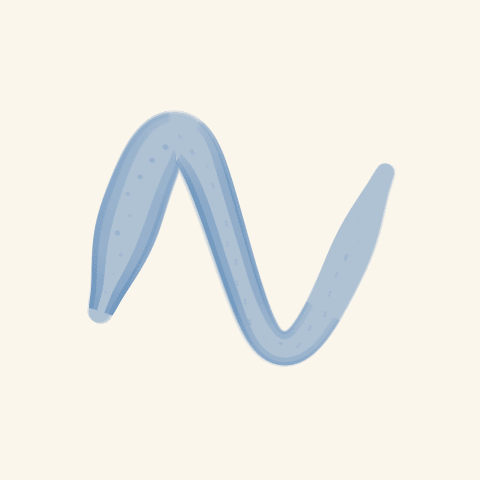
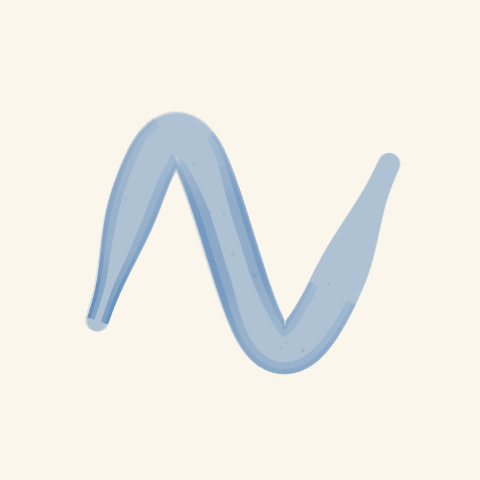
Keep the watercolor ribbon even and scatter the grain.
The thickness noise peaked at the start and made a teardrop, so the wash paints an even width and tapers both tips the same way. Specks are placed from a seed instead of stepped along the stroke.

diff --git a/Sources/Sketchy/Render/WatercolorStroke.swift b/Sources/Sketchy/Render/WatercolorStroke.swift
@@ -194,7 +194,11 @@ enum WatercolorStroke {
         }
     }
 
-    /// Fine grain inside the ribbon. Specks stay small so none of them reads as a blot.
+    /// Fine grain inside the ribbon.
+    ///
+    /// Each speck takes its position from a hashed index, not from a regular
+    /// step along the centreline, so the dots do not line up like stitches.
+    /// A few of them bring one or two neighbours. All of them stay small.
     private static func granules(
         line: (samples: [StrokeCenterSample], isClosed: Bool),
         width: CGFloat,
@@ -205,33 +209,115 @@ enum WatercolorStroke {
         let center = smoothedCenterline(line.samples, closed: line.isClosed)
         guard center.count >= 2 else { return [] }
         var pieces: [RibbonPiece] = []
-        let step = max(1, center.count / 28)
-        var index = step
-        let last = max(step, center.count - step)
-        while index < last {
-            let sample = center[index]
-            let located = StrokeCenterSample(point: sample.point, tangent: sample.forward, t: sample.t)
-            let half = halfWidth(at: located, forward: sample.forward, width: width, brush: brush, style: style, layer: 2, line: line)
+        let speckCount = 11 + Int((CGFloat(style.variation) * 6).rounded())
+        for index in 0..<speckCount {
             let seed = style.seed &+ UInt64(index) &* 0x9E37_79B9_7F4A_7C15
-            let across = SeededNoise.signed(at: CGFloat(index) * 0.17, seed: seed)
-            let unit = SeededNoise.unit(at: Float(index) * 0.13, seed: seed &+ 11)
-            let radius = half * (0.045 + 0.055 * CGFloat(unit))
-            if radius < 0.35 {
-                index += step
-                continue
-            }
-            let normal = sample.forward + .pi / 2
-            let dot = CGPoint(
-                x: sample.point.x + cos(normal) * across * half * 0.35,
-                y: sample.point.y + sin(normal) * across * half * 0.35
+            let along = CGFloat(SeededNoise.unit(at: Float(index), seed: seed &+ 41))
+            let across = CGFloat(SeededNoise.signed(at: CGFloat(index), seed: seed &+ 87))
+            let size = CGFloat(SeededNoise.unit(at: Float(index), seed: seed &+ 13))
+            let tone = CGFloat(SeededNoise.unit(at: Float(index), seed: seed &+ 59))
+            let t = line.isClosed ? along : 0.07 + along * 0.86
+            placeSpeck(
+                t: t,
+                across: across,
+                size: size,
+                tone: tone,
+                radiusScale: 1,
+                center: center,
+                width: width,
+                brush: brush,
+                style: style,
+                strokeOpacity: strokeOpacity,
+                line: line,
+                into: &pieces
             )
-            let fade = line.isClosed ? 1 : tipScale(sample.t)
-            let profile = alongOpacity(sample.t, closed: line.isClosed, brush: brush, strokeOpacity: strokeOpacity)
-            let opacity = CGFloat(style.pigment) * profile * fade * 0.18 * (0.4 + 0.6 * CGFloat(unit))
-            pieces.append(RibbonPiece(path: ellipse(center: dot, radius: radius), opacity: min(1, opacity), t: sample.t))
-            index += step
+            let cluster = SeededNoise.unit(at: Float(index), seed: seed &+ 101)
+            guard cluster > 0.78 else { continue }
+            for mate in 0..<2 {
+                let mateSeed = seed &+ UInt64(mate + 1) &* 0xBF58_476D_1CE4_E5B9
+                let alongJitter = CGFloat(SeededNoise.signed(at: CGFloat(mate + 1), seed: mateSeed)) * 0.03
+                let acrossJitter = CGFloat(SeededNoise.signed(at: CGFloat(mate + 5), seed: mateSeed &+ 7))
+                let mateSize = CGFloat(SeededNoise.unit(at: Float(mate + 2), seed: mateSeed &+ 3))
+                placeSpeck(
+                    t: min(0.94, max(0.06, t + alongJitter)),
+                    across: min(1, max(-1, across * 0.55 + acrossJitter * 0.45)),
+                    size: mateSize,
+                    tone: tone * 0.85,
+                    radiusScale: 0.65,
+                    center: center,
+                    width: width,
+                    brush: brush,
+                    style: style,
+                    strokeOpacity: strokeOpacity,
+                    line: line,
+                    into: &pieces
+                )
+            }
         }
         return pieces
+    }
+
+    /// One speck. `across` is -1...1 of the local half-width.
+    private static func placeSpeck(
+        t: CGFloat,
+        across: CGFloat,
+        size: CGFloat,
+        tone: CGFloat,
+        radiusScale: CGFloat,
+        center: [SmoothSample],
+        width: CGFloat,
+        brush: BrushProfile,
+        style: WatercolorStyle,
+        strokeOpacity: CGFloat,
+        line: (samples: [StrokeCenterSample], isClosed: Bool),
+        into pieces: inout [RibbonPiece]
+    ) {
+        let sample = sampleCenter(center, at: t)
+        let located = StrokeCenterSample(point: sample.point, tangent: sample.forward, t: sample.t)
+        let half = halfWidth(at: located, forward: sample.forward, width: width, brush: brush, style: style, layer: 2, line: line)
+        let radius = half * (0.025 + 0.055 * size) * radiusScale
+        guard radius >= 0.3 else { return }
+        let normal = sample.forward + .pi / 2
+        let reach = across * half * 0.62
+        let dot = CGPoint(
+            x: sample.point.x + cos(normal) * reach,
+            y: sample.point.y + sin(normal) * reach
+        )
+        let fade = line.isClosed ? 1 : tipScale(sample.t)
+        let profile = alongOpacity(sample.t, closed: line.isClosed, brush: brush, strokeOpacity: strokeOpacity)
+        let opacity = CGFloat(style.pigment) * profile * fade * (0.05 + 0.09 * tone) * radiusScale
+        pieces.append(RibbonPiece(path: ellipse(center: dot, radius: radius), opacity: min(1, opacity), t: sample.t))
+    }
+
+    /// Centreline sample at `t`, interpolated so a speck is not stuck to a station.
+    private static func sampleCenter(_ center: [SmoothSample], at t: CGFloat) -> SmoothSample {
+        guard center.count >= 2 else { return center[0] }
+        if t <= center[0].t { return center[0] }
+        if t >= center[center.count - 1].t { return center[center.count - 1] }
+        var low = 0
+        var high = center.count - 1
+        while high - low > 1 {
+            let mid = (low + high) / 2
+            if center[mid].t < t { low = mid } else { high = mid }
+        }
+        let start = center[low]
+        let end = center[high]
+        let span = max(0.0001, end.t - start.t)
+        let u = min(1, max(0, (t - start.t) / span))
+        let forward = atan2(
+            sin(start.forward) * (1 - u) + sin(end.forward) * u,
+            cos(start.forward) * (1 - u) + cos(end.forward) * u
+        )
+        return SmoothSample(
+            point: CGPoint(
+                x: start.point.x + (end.point.x - start.point.x) * u,
+                y: start.point.y + (end.point.y - start.point.y) * u
+            ),
+            t: t,
+            forward: forward,
+            curvature: start.curvature * (1 - u) + end.curvature * u,
+            radius: start.radius * (1 - u) + end.radius * u
+        )
     }
 
     /// One smoothed centreline, then a parallel ribbon.
@@ -278,10 +364,18 @@ enum WatercolorStroke {
             let normalAngle = sample.forward + .pi / 2
             let nx = cos(normalAngle)
             let ny = sin(normalAngle)
-            let point = CGPoint(
+            var point = CGPoint(
                 x: sample.point.x + nx * shift,
                 y: sample.point.y + ny * shift
             )
+            // Slide the open tips out along the stroke so the semicircle sits
+            // past the shoulder. Both ends use the same fraction of the width.
+            if !line.isClosed, index == 0 || index == center.count - 1 {
+                let outward = index == 0 ? sample.forward + .pi : sample.forward
+                let reach = max(left, right) * 0.9
+                point.x += cos(outward) * reach
+                point.y += sin(outward) * reach
+            }
             let innerScale = 1 - 0.22 * CGFloat(style.edgeDarkening)
             return Station(
                 center: point,
@@ -324,16 +418,37 @@ enum WatercolorStroke {
             reach: 4,
             closed: closed
         )
+        // Parameter `t` from the rough curve is not distance. The start of this
+        // stroke packed that parameter, so the tip taper finished in a few
+        // points and the cap read as a flat nub. Arc length makes both tips
+        // the same length.
+        let times = arcLengthParameters(curve.map(\.point), closed: closed)
         return curve.indices.map { index in
             let curvature = curvatures[index]
             return SmoothSample(
                 point: curve[index].point,
-                t: curve[index].t,
+                t: times[index],
                 forward: forwards[index],
                 curvature: curvature,
                 radius: 1 / max(0.0004, abs(curvature))
             )
         }
+    }
+
+    /// `0` at the start and `1` at the end, measured along the polyline.
+    private static func arcLengthParameters(_ points: [CGPoint], closed: Bool) -> [CGFloat] {
+        guard points.count >= 2 else { return points.map { _ in 0 } }
+        var lengths: [CGFloat] = [0]
+        let segments = closed ? points.count : points.count - 1
+        for index in 0..<segments {
+            let next = (index + 1) % points.count
+            lengths.append(lengths[lengths.count - 1] + hypot(points[next].x - points[index].x, points[next].y - points[index].y))
+        }
+        let total = max(lengths[lengths.count - 1], 0.0001)
+        if closed {
+            return (0..<points.count).map { lengths[$0] / total }
+        }
+        return lengths.map { $0 / total }
     }
 
     /// Pulls each edge toward its neighbours so a leftover kink cannot tooth the rim.
@@ -371,12 +486,16 @@ enum WatercolorStroke {
         layer: Int,
         line: (samples: [StrokeCenterSample], isClosed: Bool)
     ) -> CGFloat {
-        let thickness = thicknessCurve(closed: line.isClosed, brush: brush)(sample.t)
-        let tip = brush.tip.effectiveWidth(baseWidth: width * thickness, strokeAngle: forward)
-        let wander = signed(sample.t, cycles: 1.7, seed: style.seed &+ UInt64(layer) &+ 19, closed: line.isClosed)
-        let crisp = 1 + wander * (0.03 + CGFloat(style.bleed) * 0.1)
+        _ = style
+        _ = layer
+        // The brush records a thickness wobble, but that noise is one slow
+        // swell. On the catalog seed it peaks at the start and shrinks toward
+        // the middle, which paints a teardrop. The wash stays an even ribbon.
+        // `tipScale` is the only along-stroke width change, and it matches at
+        // both ends.
+        let tip = brush.tip.effectiveWidth(baseWidth: width, strokeAngle: forward)
         let end = line.isClosed ? 1 : tipScale(sample.t)
-        return max(0.2, tip * 0.5 * crisp * end)
+        return max(0.2, tip * 0.5 * end)
     }
 
     private static func neighbor(_ index: Int, count: Int, closed: Bool) -> Int {
@@ -435,13 +554,11 @@ enum WatercolorStroke {
         return result
     }
 
-    /// Moving average. Open curves keep their endpoints and mirror the padding so the tip does not hook.
+    /// Moving average. Mirror padding keeps a straight end from hooking, and the
+    /// raw endpoint is included so a jittered start is pulled onto the stroke.
     private static func averageCurve(_ curve: [CurvePoint], reach: Int, closed: Bool) -> [CurvePoint] {
         guard curve.count >= 3, reach > 0 else { return curve }
         return curve.indices.map { index in
-            if !closed, index == 0 || index == curve.count - 1 {
-                return curve[index]
-            }
             var x: CGFloat = 0
             var y: CGFloat = 0
             var t: CGFloat = 0
@@ -495,7 +612,7 @@ enum WatercolorStroke {
             return atan2(after.y - before.y, after.x - before.x)
         }
         let window = 3
-        return (0..<count).map { index in
+        var angles = (0..<count).map { index -> CGFloat in
             var sx: CGFloat = 0
             var sy: CGFloat = 0
             for offset in -window...window {
@@ -511,6 +628,33 @@ enum WatercolorStroke {
             }
             return atan2(sy, sx)
         }
+        guard !closed, count > 2 else { return angles }
+        // The tip direction is the chord leaving the end, not a reflected
+        // neighbour. A flipped start tangent offsets the width along the
+        // stroke and flattens the cap.
+        let look = min(8, count - 1)
+        let startAngle = atan2(points[look].y - points[0].y, points[look].x - points[0].x)
+        let endIndex = count - 1
+        let endAngle = atan2(
+            points[endIndex].y - points[endIndex - look].y,
+            points[endIndex].x - points[endIndex - look].x
+        )
+        for index in 0..<count {
+            let startWeight = max(0, 1 - CGFloat(index) / CGFloat(look))
+            let endWeight = max(0, 1 - CGFloat(endIndex - index) / CGFloat(look))
+            if startWeight > 0 {
+                angles[index] = blendAngle(angles[index], toward: startAngle, amount: startWeight)
+            }
+            if endWeight > 0 {
+                angles[index] = blendAngle(angles[index], toward: endAngle, amount: endWeight)
+            }
+        }
+        return angles
+    }
+
+    private static func blendAngle(_ angle: CGFloat, toward target: CGFloat, amount: CGFloat) -> CGFloat {
+        let keep = 1 - amount
+        return atan2(sin(angle) * keep + sin(target) * amount, cos(angle) * keep + cos(target) * amount)
     }
 
     private static func reflectedPoint(_ points: [CGPoint], index: Int, closed: Bool) -> CGPoint {
@@ -610,21 +754,12 @@ enum WatercolorStroke {
 
     /// Open strokes narrow into a round tip instead of a square cut.
     private static func tipScale(_ t: CGFloat) -> CGFloat {
-        let window: CGFloat = 0.14
+        let window: CGFloat = 0.18
         let edge = min(max(0, t), max(0, 1 - t))
         if edge >= window { return 1 }
         let mix = edge / window
         let smooth = mix * mix * (3 - 2 * mix)
-        return 0.36 + 0.64 * smooth
-    }
-
-    private static func thicknessCurve(closed: Bool, brush: BrushProfile) -> (CGFloat) -> CGFloat {
-        let join = brush.thicknessProfile.multiplier(at: 0)
-        return { t in
-            let raw = brush.thicknessProfile.multiplier(at: t)
-            guard closed else { return raw }
-            return seamBlend(value: raw, toward: join, t: t, window: 0.1)
-        }
+        return 0.42 + 0.58 * smooth
     }
 
     private static func alongOpacity(

diff --git a/Sources/Sketchy/Engine/BrushProfile.swift b/Sources/Sketchy/Engine/BrushProfile.swift
@@ -581,9 +581,11 @@ public struct BrushProfile: Equatable, Hashable, Sendable {
 
     /// Watercolor wash along the outline. Several translucent passes and a broken darker rim.
     ///
-    /// `watercolor()` with the defaults equals `.watercolor`. `variation` feeds
-    /// `ThicknessProfile.variable` and an `OpacityProfile.noise` curve. `seed`
-    /// repeats the wash. `WatercolorStyle.defaultSeed` (`1`) yields to `Options.seed`.
+    /// `watercolor()` with the defaults equals `.watercolor`. `variation` stores
+    /// `ThicknessProfile.variable` and an `OpacityProfile.noise` curve. The wash
+    /// does not follow that thickness swell: a slow peak was fattening one end.
+    /// The painted ribbon stays an even width, and both tips taper the same way.
+    /// `seed` repeats the wash. `WatercolorStyle.defaultSeed` (`1`) yields to `Options.seed`.
     ///
     /// The outline is the wash. `.fillStyle(.watercolor)` uses this style for a
     /// clipped interior when the brush carries one, and `WatercolorStyle()` when

diff --git a/DOCUMENTATION.md b/DOCUMENTATION.md
@@ -864,7 +864,7 @@ RoughView()
 
 `BrushProfile.watercolor(...)` paints a wash on the outline. `.watercolor` is that call with the defaults.
 
-The body is one ribbon around a smoothed centreline, so a tight bend stays an even width instead of flaring or toothing. The centre is lighter. One broken rim is darker and fades along the stroke, with a fainter strip blending it into the body. It is not a continuous outline. Open strokes taper into a round tip. There is no blur. `variation` sets `ThicknessProfile.variable` and `OpacityProfile.noise`. `layers` is how many body glazes are laid down, from 1 to 5. Only the first glaze carries the rim. Each glaze is a translucent fill, so a crossing goes darker. The variable-opacity stroke still uses one mask. The same `seed` repeats the wash. `WatercolorStyle.defaultSeed` (`1`) yields to `Options.seed`.
+The body is one ribbon around a smoothed centreline, so a tight bend stays an even width instead of flaring or toothing. The centre is lighter. One broken rim is darker and fades along the stroke, with a fainter strip blending it into the body. It is not a continuous outline. Open strokes taper into a round tip. There is no blur. `variation` stores `ThicknessProfile.variable` and sets `OpacityProfile.noise`. The painted ribbon does not follow that thickness swell, so the width stays even and both tips taper the same way. `layers` is how many body glazes are laid down, from 1 to 5. Only the first glaze carries the rim. Each glaze is a translucent fill, so a crossing goes darker. The variable-opacity stroke still uses one mask. The same `seed` repeats the wash. `WatercolorStyle.defaultSeed` (`1`) yields to `Options.seed`.
 
 ### Watercolor fill
 

diff --git a/CHANGELOG.md b/CHANGELOG.md
@@ -2,7 +2,7 @@
 
 ## Unreleased
 
-- `BrushProfile.watercolor(pigment:wetness:edgeDarkening:layers:variation:bleed:seed:)` and `.watercolor` paint a wash along the outline. The body stays lighter. One broken rim is darker and fades along the stroke. The ribbon is offset from a smoothed centreline, so a tight bend stays an even width. Glazes are ordinary translucent fills, so a crossing goes darker. `bleed` wanders the edge. It does not blur. The same seed repeats the wash. `WatercolorStyle.defaultSeed` (`1`) yields to `Options.seed`. A watercolor brush shares its style with `.fillStyle(.watercolor)`.
+- `BrushProfile.watercolor(pigment:wetness:edgeDarkening:layers:variation:bleed:seed:)` and `.watercolor` paint a wash along the outline. The body stays lighter. One broken rim is darker and fades along the stroke. The ribbon is an even width. A slow thickness swell is not painted, because it fattened the start of a seeded stroke, and both tips taper the same way. Specks are scattered from a seed instead of stepped along the stroke. Glazes are ordinary translucent fills, so a crossing goes darker. `bleed` wanders the edge. It does not blur. The same seed repeats the wash. `WatercolorStyle.defaultSeed` (`1`) yields to `Options.seed`. A watercolor brush shares its style with `.fillStyle(.watercolor)`.
 
 ## [1.3.0] - 2026-11-03
 
